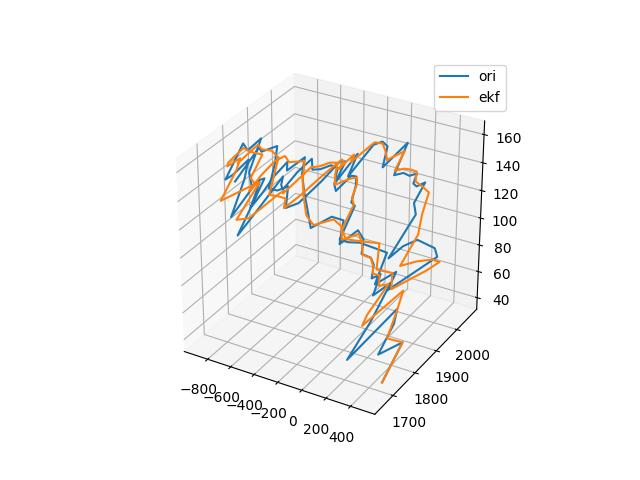
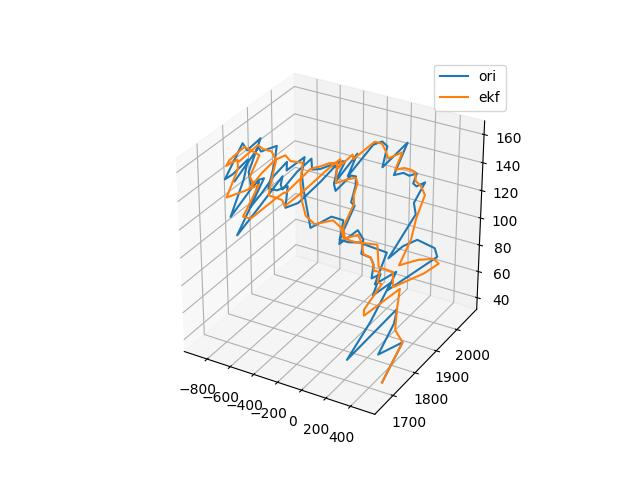
新增预测点plot；修改ekf predict逻辑

diff --git a/testEKF.py b/testEKF.py
@@ -36,6 +36,8 @@ all_beta = []
 pdx=[]
 pdy=[]
 pdz=[]
+prePts = []
+
 for i in range(ptsInWorld.shape[0]):
     x = ptsInCam[i,0]
     y = ptsInCam[i,1]
@@ -49,7 +51,7 @@ for i in range(ptsInWorld.shape[0]):
     all_beta.append(beta)
     #print(observation)
 
-    deltaTime = 5
+    deltaTime = 5 # ms
 
     if ekf.first==False:
         state[1,0] = (ptsInWorld[i,0] - ptsInWorld[i-1,0])/deltaTime
@@ -70,11 +72,15 @@ for i in range(ptsInWorld.shape[0]):
     predictedPtsInWorld = ekf.step(deltaTime, [yaw,pitch], state, observation, np.reshape(ptsInCam[i], (3,1)))
     ptsEKF[i] = predictedPtsInWorld.T
 
+    distance = np.linalg.norm(ekf.hMatrix @ ekf.state) # 世界坐标系下的距离(mm)
+    flyTime = distance/10 # 子弹飞行时间(ms)
+    prePts.append(ekf.getPredictedPtsInWorld(20))
+
     pdx.append(ekf.state[1][0])
     pdy.append(ekf.state[3][0])
     pdz.append(ekf.state[5][0])
 
-
+prePts = np.array(prePts)
 data = ptsInWorld
 data1 = ptsEKF
 
@@ -92,13 +98,15 @@ length = data.shape[0]
 x = np.linspace(0, length-1, length)
 fig = plt.figure()
 ax1 = fig.add_subplot(2,3,1)
-ax1.plot(x, data[:,0], x, data1[:,0])
+ax1.plot(x, data[:,0])
+ax1.plot(x, data1[:,0])
+ax1.plot(x, prePts[:,0])
 ax1.legend(['x','x1'])
 ax4 = fig.add_subplot(2,3,2)
-ax4.plot(x, data[:,1], x, data1[:,1])
+ax4.plot(x, data[:,1], x, data1[:,1], x, prePts[:,1])
 ax4.legend(['y','y1'])
 ax5 = fig.add_subplot(2,3,3)
-ax5.plot(x, data[:,2], x, data1[:,2])
+ax5.plot(x, data[:,2], x, data1[:,2], x, prePts[:,2])
 ax5.legend(['z','z1'])
 
 
@@ -122,7 +130,6 @@ ax4.legend('z','p')
 
 
 plt.savefig('./assets/ptsInWorld.jpg')
-
 
  
 mpl.rcParams['legend.fontsize'] = 10

diff --git a/modules/ExtendKF.py b/modules/ExtendKF.py
@@ -120,18 +120,19 @@ class EKF():
         for i in range(self.measurementDimension):
             predictedPosInWorld.append(self.state[i*2] + time * self.state[i*2 + 1])
         
-        return predictedPosInWorld    
+        return np.reshape(predictedPosInWorld,(3,))  
     
     def predict(self, time, bulletSpeed):
-        '''返回时间time后云台应该旋转的yaw和pitch值'''
-        # 世界坐标系->云台坐标系
-        predictedPosInWorld = self.getPredictedPtsInWorld(time)
+        '''返回时间time后云台应该旋转的相对yaw和pitch值'''        
+        distance = np.linalg.norm(self.hMatrix @ self.state) # 世界坐标系下的距离(mm)
+        flyTime = distance/bulletSpeed # 子弹飞行时间(ms)
+        dropDistance = 0.5 * 9.7940 * (flyTime/1000)**2 * 1000 # 下坠距离(mm)
+
+        # 世界坐标系->云台坐标系       
+        predictedPosInWorld = self.getPredictedPtsInWorld(time+flyTime) 
         predictedPosInTripod = np.linalg.inv(self.rotationMatrix) @ predictedPosInWorld
 
-        # 弹道下坠补偿
-        distance = np.linalg.norm(predictedPosInTripod) # 云台坐标系下的距离
-        flyTime = distance/bulletSpeed # 子弹飞行时间
-        dropDistance = 0.5 * 9.7940 * flyTime**2 # 下坠距离
+        # 弹道下坠补偿        
         predictedPosInTripod[1] += dropDistance 
 
         # 坐标值->yaw、pitch
